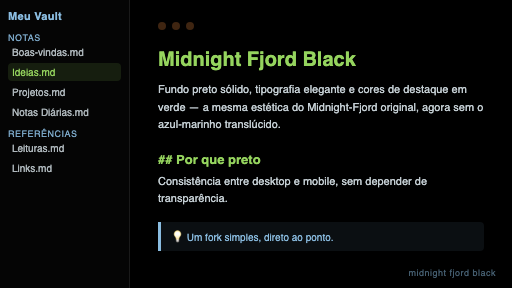
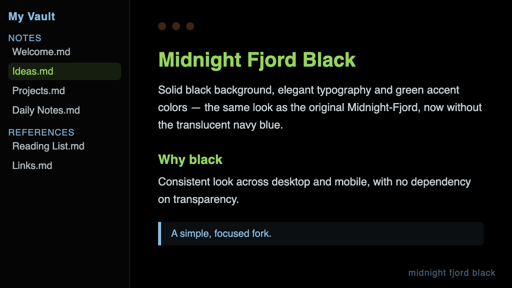
Refaz o screenshot em inglês e em resolução maior
O screenshot.png do repo (512x288, exigido pela submissão) agora
é renderizado em 2x e reduzido, com texto em inglês. Também gera
uma versão em 1200x800 (3:2) para o upload de tela da Community
directory, com mais espaço para detalhe.

diff --git a/assets/mockup-1200x800.html b/assets/mockup-1200x800.html
@@ -1,0 +1,190 @@
+<!DOCTYPE html>
+<html>
+<head>
+<meta charset="utf-8">
+<style>
+  :root {
+    --text: #e7f3f9;
+    --background-primary: #000000;
+    --background-secondary: #050505;
+    --primary: #8abce0;
+    --secondary: #7d4a21;
+    --accent: #95d45e;
+    --border: #1a1a1a;
+  }
+  * { box-sizing: border-box; margin: 0; padding: 0; }
+  html, body {
+    width: 1200px;
+    height: 800px;
+    background: var(--background-primary);
+    color: var(--text);
+    font-family: -apple-system, 'Segoe UI', sans-serif;
+    overflow: hidden;
+  }
+  .app {
+    display: flex;
+    width: 1200px;
+    height: 800px;
+  }
+  .sidebar {
+    width: 300px;
+    background: var(--background-secondary);
+    border-right: 1px solid var(--border);
+    padding: 26px 20px;
+    font-size: 15px;
+  }
+  .sidebar .vault-name {
+    color: var(--primary);
+    font-weight: 700;
+    font-size: 17px;
+    margin-bottom: 26px;
+    letter-spacing: 0.3px;
+    display: flex;
+    align-items: center;
+    gap: 10px;
+  }
+  .sidebar .vault-name .dot {
+    width: 10px; height: 10px; border-radius: 3px;
+    background: var(--accent);
+  }
+  .sidebar .item {
+    color: var(--text);
+    opacity: 0.75;
+    padding: 8px 10px;
+    border-radius: 6px;
+    margin-bottom: 4px;
+  }
+  .sidebar .item.active {
+    background: rgba(149, 212, 94, 0.12);
+    color: var(--accent);
+    opacity: 1;
+  }
+  .sidebar .folder {
+    color: var(--primary);
+    opacity: 0.9;
+    margin-top: 22px;
+    margin-bottom: 6px;
+    font-size: 12px;
+    text-transform: uppercase;
+    letter-spacing: 0.8px;
+  }
+  .main {
+    flex: 1;
+    padding: 56px 72px;
+    display: flex;
+    flex-direction: column;
+    position: relative;
+  }
+  .titlebar {
+    display: flex;
+    gap: 10px;
+    margin-bottom: 48px;
+  }
+  .dot3 {
+    width: 13px; height: 13px; border-radius: 50%;
+    background: var(--secondary);
+    opacity: 0.5;
+  }
+  .badge {
+    display: inline-block;
+    color: var(--accent);
+    background: rgba(149, 212, 94, 0.1);
+    border: 1px solid rgba(149, 212, 94, 0.35);
+    font-size: 13px;
+    font-weight: 600;
+    letter-spacing: 0.5px;
+    text-transform: uppercase;
+    padding: 5px 12px;
+    border-radius: 20px;
+    margin-bottom: 24px;
+    width: fit-content;
+  }
+  h1 {
+    color: var(--accent);
+    font-size: 52px;
+    font-weight: 800;
+    margin-bottom: 22px;
+    letter-spacing: -0.5px;
+  }
+  h2 {
+    color: var(--accent);
+    font-size: 24px;
+    font-weight: 700;
+    margin: 34px 0 14px;
+  }
+  p {
+    font-size: 20px;
+    line-height: 1.65;
+    color: var(--text);
+    opacity: 0.85;
+    max-width: 700px;
+  }
+  .callout {
+    border-left: 4px solid var(--primary);
+    background: rgba(138, 188, 224, 0.08);
+    padding: 16px 22px;
+    font-size: 18px;
+    color: var(--primary);
+    border-radius: 0 8px 8px 0;
+    margin-top: 28px;
+    max-width: 680px;
+  }
+  .swatches {
+    display: flex;
+    gap: 14px;
+    margin-top: 30px;
+  }
+  .swatch {
+    width: 42px;
+    height: 42px;
+    border-radius: 10px;
+    border: 1px solid var(--border);
+  }
+  .name {
+    position: absolute;
+    bottom: 28px;
+    right: 40px;
+    font-size: 14px;
+    color: var(--primary);
+    opacity: 0.5;
+    letter-spacing: 0.8px;
+  }
+</style>
+</head>
+<body>
+  <div class="app">
+    <div class="sidebar">
+      <div class="vault-name"><span class="dot"></span>My Vault</div>
+      <div class="folder">Notes</div>
+      <div class="item">Welcome.md</div>
+      <div class="item active">Ideas.md</div>
+      <div class="item">Projects.md</div>
+      <div class="item">Daily Notes.md</div>
+      <div class="folder">References</div>
+      <div class="item">Reading List.md</div>
+      <div class="item">Links.md</div>
+      <div class="folder">Archive</div>
+      <div class="item">2025 Review.md</div>
+    </div>
+    <div class="main">
+      <div class="titlebar">
+        <div class="dot3"></div><div class="dot3"></div><div class="dot3"></div>
+      </div>
+      <div class="badge">Obsidian Theme</div>
+      <h1>Midnight Fjord Black</h1>
+      <p>Solid black background, elegant typography and green accent colors — the same look as the original Midnight-Fjord, now without the translucent navy blue.</p>
+      <h2>Why black</h2>
+      <p>Consistent look across desktop and mobile, with no dependency on transparency.</p>
+      <div class="callout">A simple, focused fork of Midnight-Fjord by Quintavalle Pietro.</div>
+      <div class="swatches">
+        <div class="swatch" style="background:#000000"></div>
+        <div class="swatch" style="background:#95d45e"></div>
+        <div class="swatch" style="background:#8abce0"></div>
+        <div class="swatch" style="background:#7d4a21"></div>
+        <div class="swatch" style="background:#e7f3f9"></div>
+      </div>
+      <div class="name">midnight fjord black</div>
+    </div>
+  </div>
+</body>
+</html>

diff --git a/assets/mockup-512x288.html b/assets/mockup-512x288.html
@@ -65,6 +65,7 @@
     padding: 22px 28px;
     display: flex;
     flex-direction: column;
+    position: relative;
   }
   .titlebar {
     display: flex;
@@ -118,14 +119,14 @@
 <body>
   <div class="app">
     <div class="sidebar">
-      <div class="vault-name">Meu Vault</div>
-      <div class="folder">Notas</div>
-      <div class="item">Boas-vindas.md</div>
-      <div class="item active">Ideias.md</div>
-      <div class="item">Projetos.md</div>
-      <div class="item">Notas Diárias.md</div>
-      <div class="folder">Referências</div>
-      <div class="item">Leituras.md</div>
+      <div class="vault-name">My Vault</div>
+      <div class="folder">Notes</div>
+      <div class="item">Welcome.md</div>
+      <div class="item active">Ideas.md</div>
+      <div class="item">Projects.md</div>
+      <div class="item">Daily Notes.md</div>
+      <div class="folder">References</div>
+      <div class="item">Reading List.md</div>
       <div class="item">Links.md</div>
     </div>
     <div class="main">
@@ -133,10 +134,10 @@
         <div class="dot"></div><div class="dot"></div><div class="dot"></div>
       </div>
       <h1>Midnight Fjord Black</h1>
-      <p>Fundo preto sólido, tipografia elegante e cores de destaque em verde — a mesma estética do Midnight-Fjord original, agora sem o azul-marinho translúcido.</p>
-      <h2>## Por que preto</h2>
-      <p>Consistência entre desktop e mobile, sem depender de transparência.</p>
-      <div class="callout">💡 Um fork simples, direto ao ponto.</div>
+      <p>Solid black background, elegant typography and green accent colors — the same look as the original Midnight-Fjord, now without the translucent navy blue.</p>
+      <h2>Why black</h2>
+      <p>Consistent look across desktop and mobile, with no dependency on transparency.</p>
+      <div class="callout">A simple, focused fork.</div>
       <div class="name">midnight fjord black</div>
     </div>
   </div>
